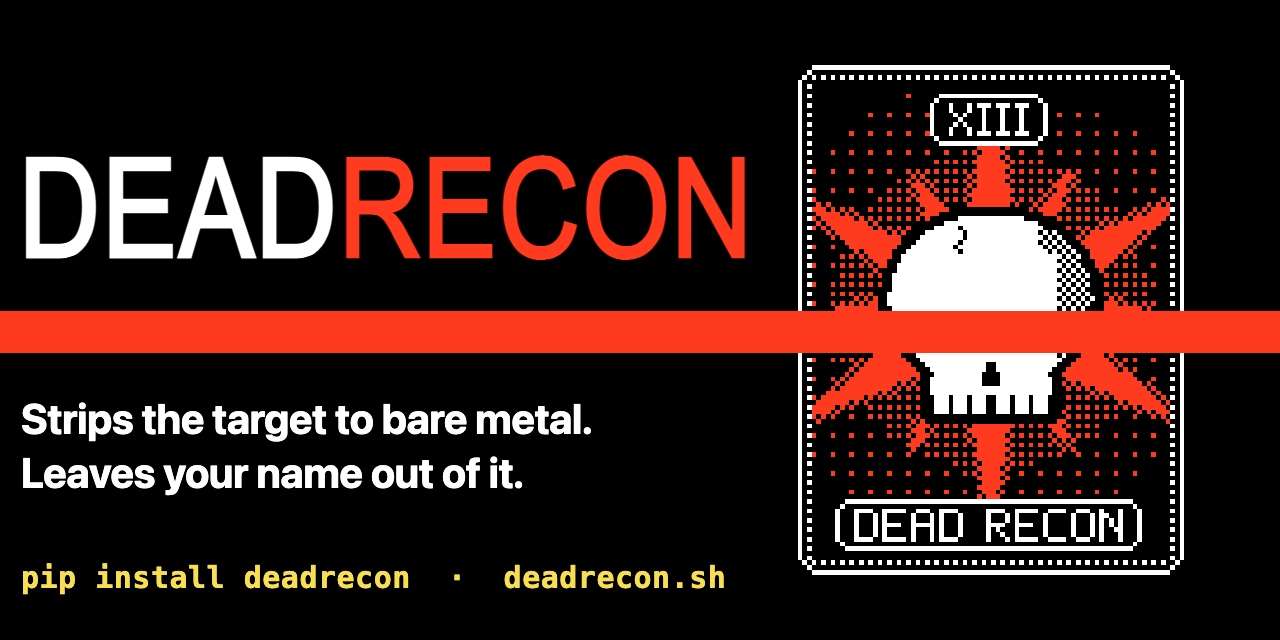
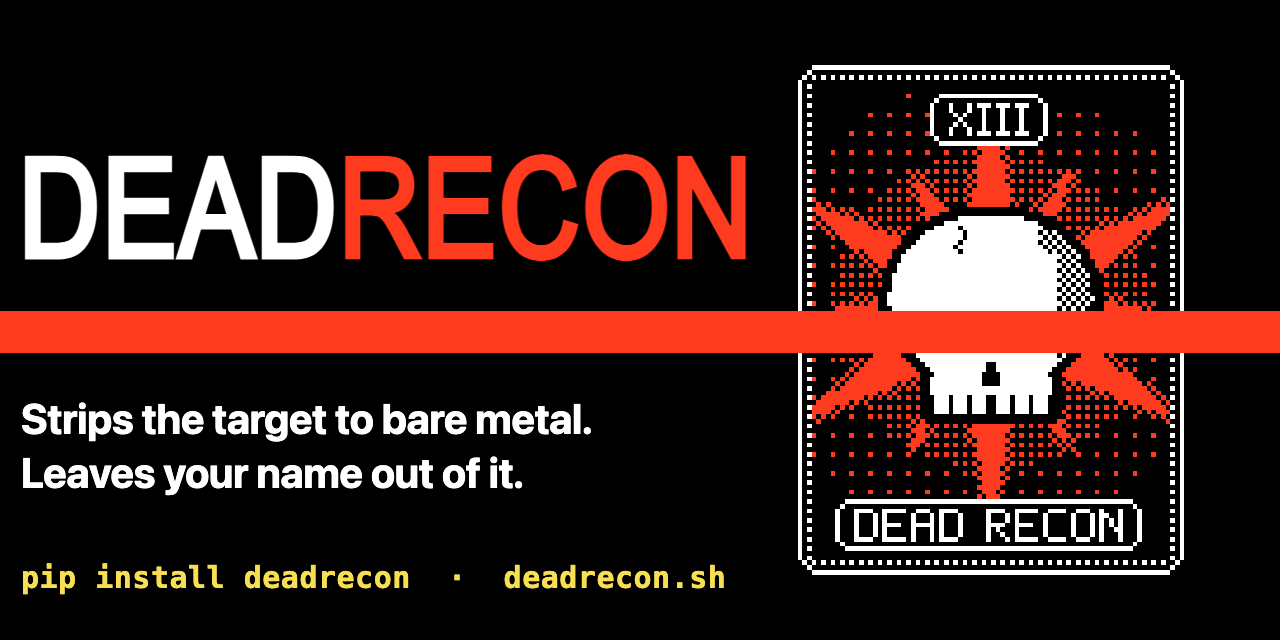
docs: increase social-card wordmark stroke to 5px

Changed region(s): [[0.0, 0.25, 0.5938, 0.4062], [0.3125, 0.3438, 0.4375, 0.4062], [0.4375, 0.3438, 0.4688, 0.375]]

diff --git a/docs/assets/deadrecon-social.src.html b/docs/assets/deadrecon-social.src.html
@@ -37,8 +37,8 @@
     font-family:"Anton", "Arial Narrow", Impact, sans-serif; font-weight:400;
     font-size:138px; line-height:1; letter-spacing:0.01em; text-transform:uppercase; white-space:nowrap;
   }
-  .wm .w{ color:var(--fg); -webkit-text-stroke:3px var(--fg); paint-order:stroke fill; }
-  .wm .r{ color:var(--red); -webkit-text-stroke:3px var(--red); paint-order:stroke fill; }
+  .wm .w{ color:var(--fg); -webkit-text-stroke:5px var(--fg); paint-order:stroke fill; }
+  .wm .r{ color:var(--red); -webkit-text-stroke:5px var(--red); paint-order:stroke fill; }
 
   .sub{
     position:absolute; top:392px; left:21px; z-index:2;
